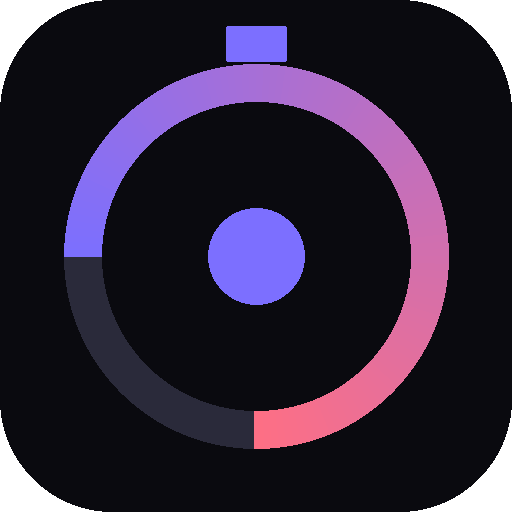
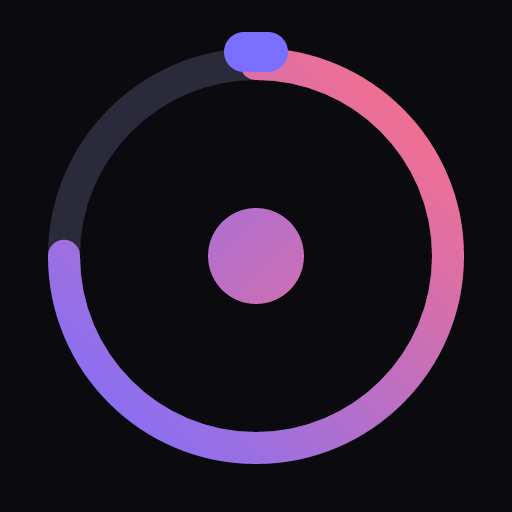
feat: OG-карточка, исправленные иконки, make og

diff --git a/index.html b/index.html
@@ -9,6 +9,23 @@
   <meta name="apple-mobile-web-app-title" content="Один-Два" />
   <meta name="description" content="ОДИН·ДВА — интервальный таймер: один — работа, два — отдых. Конструктор программ HIIT, силовых и кардио, музыка по фазам, прогресс офлайн. Без рекламы и регистрации." />
   <meta name="google-site-verification" content="AfisqJqjGnzUTLMmmJNRxmtT5P44XOKwRR5N_WaB8mk" />
+  <link rel="canonical" href="https://odin-dva.ru" />
+  <!-- Open Graph -->
+  <meta property="og:type" content="website" />
+  <meta property="og:url" content="https://odin-dva.ru" />
+  <meta property="og:site_name" content="ОДИН·ДВА" />
+  <meta property="og:locale" content="ru_RU" />
+  <meta property="og:title" content="ОДИН·ДВА — интервальный таймер" />
+  <meta property="og:description" content="Один — работа, два — отдых. Конструктор HIIT, силовых и кардио тренировок с музыкой по фазам. Офлайн, без рекламы и регистрации." />
+  <meta property="og:image" content="https://odin-dva.ru/icons/og-image.png" />
+  <meta property="og:image:width" content="1200" />
+  <meta property="og:image:height" content="630" />
+  <meta property="og:image:alt" content="ОДИН·ДВА — интервальный таймер" />
+  <!-- Twitter / X Card -->
+  <meta name="twitter:card" content="summary_large_image" />
+  <meta name="twitter:title" content="ОДИН·ДВА — интервальный таймер" />
+  <meta name="twitter:description" content="Один — работа, два — отдых. Конструктор HIIT, силовых и кардио тренировок с музыкой по фазам. Без рекламы." />
+  <meta name="twitter:image" content="https://odin-dva.ru/icons/og-image.png" />
   <title>Один-Два</title>
   <link rel="manifest" href="manifest.json" />
   <link rel="icon" type="image/svg+xml" href="icons/favicon.svg" />

diff --git a/static/app.js b/static/app.js
@@ -528,15 +528,15 @@ document.getElementById('sheet-share').addEventListener('click', async () => {
   const data = { version: 1, exported: new Date().toISOString(), workouts: [w] };
   const blob = new Blob([JSON.stringify(data, null, 2)], { type: 'application/json' });
   const date = new Date().toISOString().slice(0, 10);
-  const filename = `odindva-${w.name.replace(/[^a-zA-Zа-яА-Я0-9]/g, '_')}-${date}.json`;
+  const filename = `odin-dva-${w.name.replace(/[^a-zA-Zа-яА-Я0-9]/g, '_')}-${date}.json`;
   const file = new File([blob], filename, { type: 'application/json' });
   try {
     // Try sharing with file first (iOS, macOS Safari, Android Chrome)
     if (navigator.canShare && navigator.canShare({ files: [file] })) {
-      await navigator.share({ title: w.name, files: [file] });
+      await navigator.share({ title: `${w.name} — ОДИН·ДВА`, text: `Тренировка «${w.name}»\nhttps://odin-dva.ru`, files: [file] });
     } else {
       // Desktop Chrome/Edge: share without file — opens OS share sheet
-      await navigator.share({ title: w.name, text: `Тренировка «${w.name}» из ОДИН·ДВА — https://odin-dva.ru` });
+      await navigator.share({ title: `${w.name} — ОДИН·ДВА`, text: `Тренировка «${w.name}» из ОДИН·ДВА\nhttps://odin-dva.ru` });
     }
   } catch (err) {
     if (err.name !== 'AbortError') exportWorkout(w); // last resort: download

diff --git a/scripts/gen-og.js b/scripts/gen-og.js
@@ -1,0 +1,40 @@
+#!/usr/bin/env node
+// Converts og-image.svg → og-image.png and favicon.svg → icon-512.png
+// Requires: @resvg/resvg-js (installed via `make og` or manually)
+
+const { Resvg } = require('@resvg/resvg-js');
+const fs   = require('fs');
+const path = require('path');
+
+const root = path.join(__dirname, '..');
+
+function convert(svgFile, pngFile, width, bgColor) {
+  let svg = fs.readFileSync(svgFile, 'utf-8');
+  if (bgColor) {
+    // Inject background rect right after opening <svg ...> tag
+    svg = svg.replace(/(<svg[^>]*>)/, `$1<rect width="100%" height="100%" fill="${bgColor}"/>`);
+  }
+  const resvg = new Resvg(svg, {
+    fitTo: { mode: 'width', value: width },
+    font:  { loadSystemFonts: true },
+  });
+  const pngData = resvg.render().asPng();
+  fs.writeFileSync(pngFile, pngData);
+  console.log('✓', path.relative(root, pngFile));
+}
+
+convert(
+  path.join(root, 'icons/og-image.svg'),
+  path.join(root, 'icons/og-image.png'),
+  1200,
+);
+
+const iconSizes = [
+  { file: 'icons/icon-512.png', size: 512 },
+  { file: 'icons/icon-192.png', size: 192 },
+  { file: 'icons/icon-180.png', size: 180 },
+  { file: 'icons/favicon-32.png', size: 32 },
+];
+for (const { file, size } of iconSizes) {
+  convert(path.join(root, 'icons/favicon.svg'), path.join(root, file), size, '#0a0a0f');
+}

diff --git a/README.md b/README.md
@@ -41,11 +41,15 @@
 │   ├── app.js          # Полная логика приложения
 │   └── style.css       # Все стили, CSS-переменные, анимации
 ├── icons/
-│   ├── favicon.svg     # Векторная иконка
-│   ├── favicon-32.png  # Растровый фолбэк
-│   ├── icon-180.png    # Apple Touch Icon
-│   ├── icon-192.png    # PWA icon
-│   └── icon-512.png    # PWA icon (maskable)
+│   ├── favicon.svg     # Векторный исходник логотипа
+│   ├── og-image.svg    # Векторный исходник социальной карточки 1200×630
+│   ├── og-image.png    # OG-образ для мессенджеров (генерируется)
+│   ├── favicon-32.png  # Растровый фолбэк (генерируется)
+│   ├── icon-180.png    # Apple Touch Icon (генерируется)
+│   ├── icon-192.png    # PWA icon (генерируется)
+│   └── icon-512.png    # PWA icon maskable (генерируется)
+├── scripts/
+│   └── gen-og.js       # SVG → PNG: все иконки + og-image
 └── sounds/
     ├── beep_tick.m4a   # Бип отсчёта подготовки
     ├── beep_go.m4a     # Бип старта фазы
@@ -59,9 +63,23 @@
 ## Запуск локально
 
 ```bash
-python3 -m http.server 8080
-# открыть http://localhost:8080
+make dev          # сервер на http://localhost:8080
+make dev PORT=3000  # другой порт
 ```
+
+## Иконки и OG-образ
+
+Все PNG-иконки генерируются из SVG-исходников скриптом:
+
+```bash
+make og  # → icons/og-image.png, icon-512.png, icon-192.png, icon-180.png, favicon-32.png
+```
+
+Исходники:
+- `icons/favicon.svg` — логотип приложения (все размеры иконок)
+- `icons/og-image.svg` — карточка 1200×630 для мессенджеров / Twitter
+
+Генератор: `scripts/gen-og.js` (Node.js + `@resvg/resvg-js`).
 
 ## Флоу тренировки
 

diff --git a/TODO.md b/TODO.md
@@ -21,6 +21,9 @@
 - **Общее время тренировки на экране детали** — строка «Итого X мин» под списком упражнений.
 - **Дублировать тренировку** — кнопка в gear sheet, создаёт копию «Дубликат — Название».
 - **Поделиться тренировкой** — Web Share API (JSON-файл), fallback на скачивание. Кнопка скрыта если API недоступен.
+- **Open Graph / Twitter Card** — `og:title`, `og:description`, `og:image` (1200×630), `twitter:card summary_large_image`, `canonical`. Красивые превью в мессенджерах.
+- **OG-образ и иконки** — `icons/og-image.svg` (тёмный фон, логотип, «ОДИН·ДВА», «Interval Timer», «odin-dva.ru»), PNG генерируется через `make og` (`scripts/gen-og.js`). Все иконки (512/192/180/32) перегенерированы из правильного `favicon.svg`.
+- **Имя JSON при шаринге** — формат `odin-dva-NAME-DATE.json`. Текст шаринга содержит название тренировки и ссылку `https://odin-dva.ru`.
 
 ---
 
